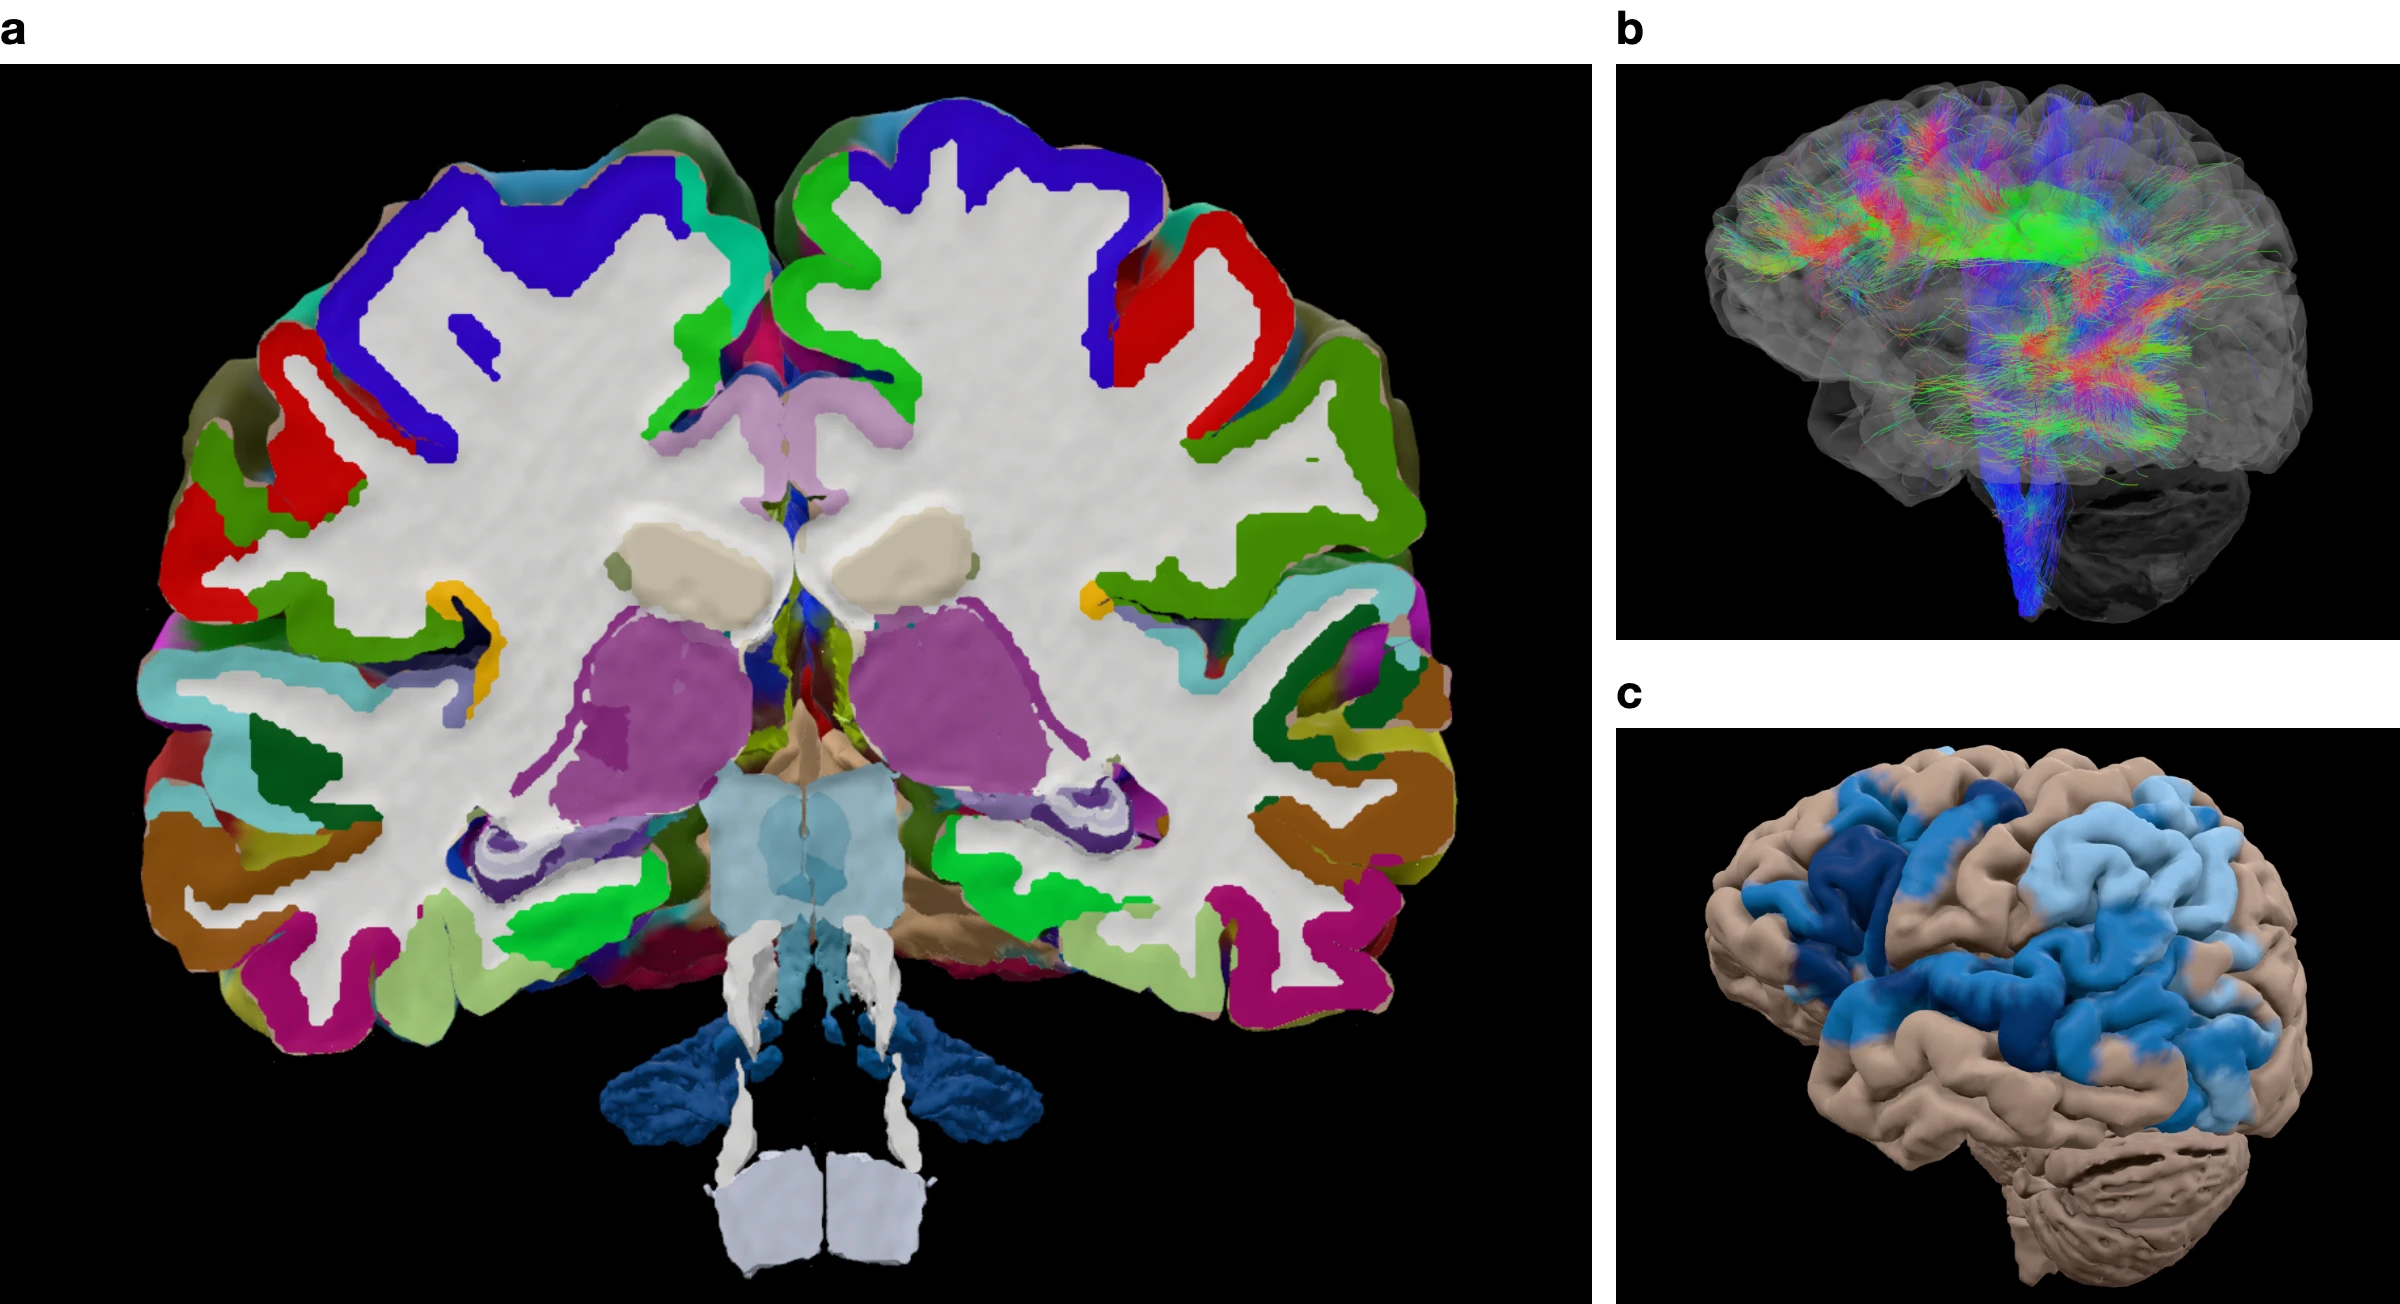
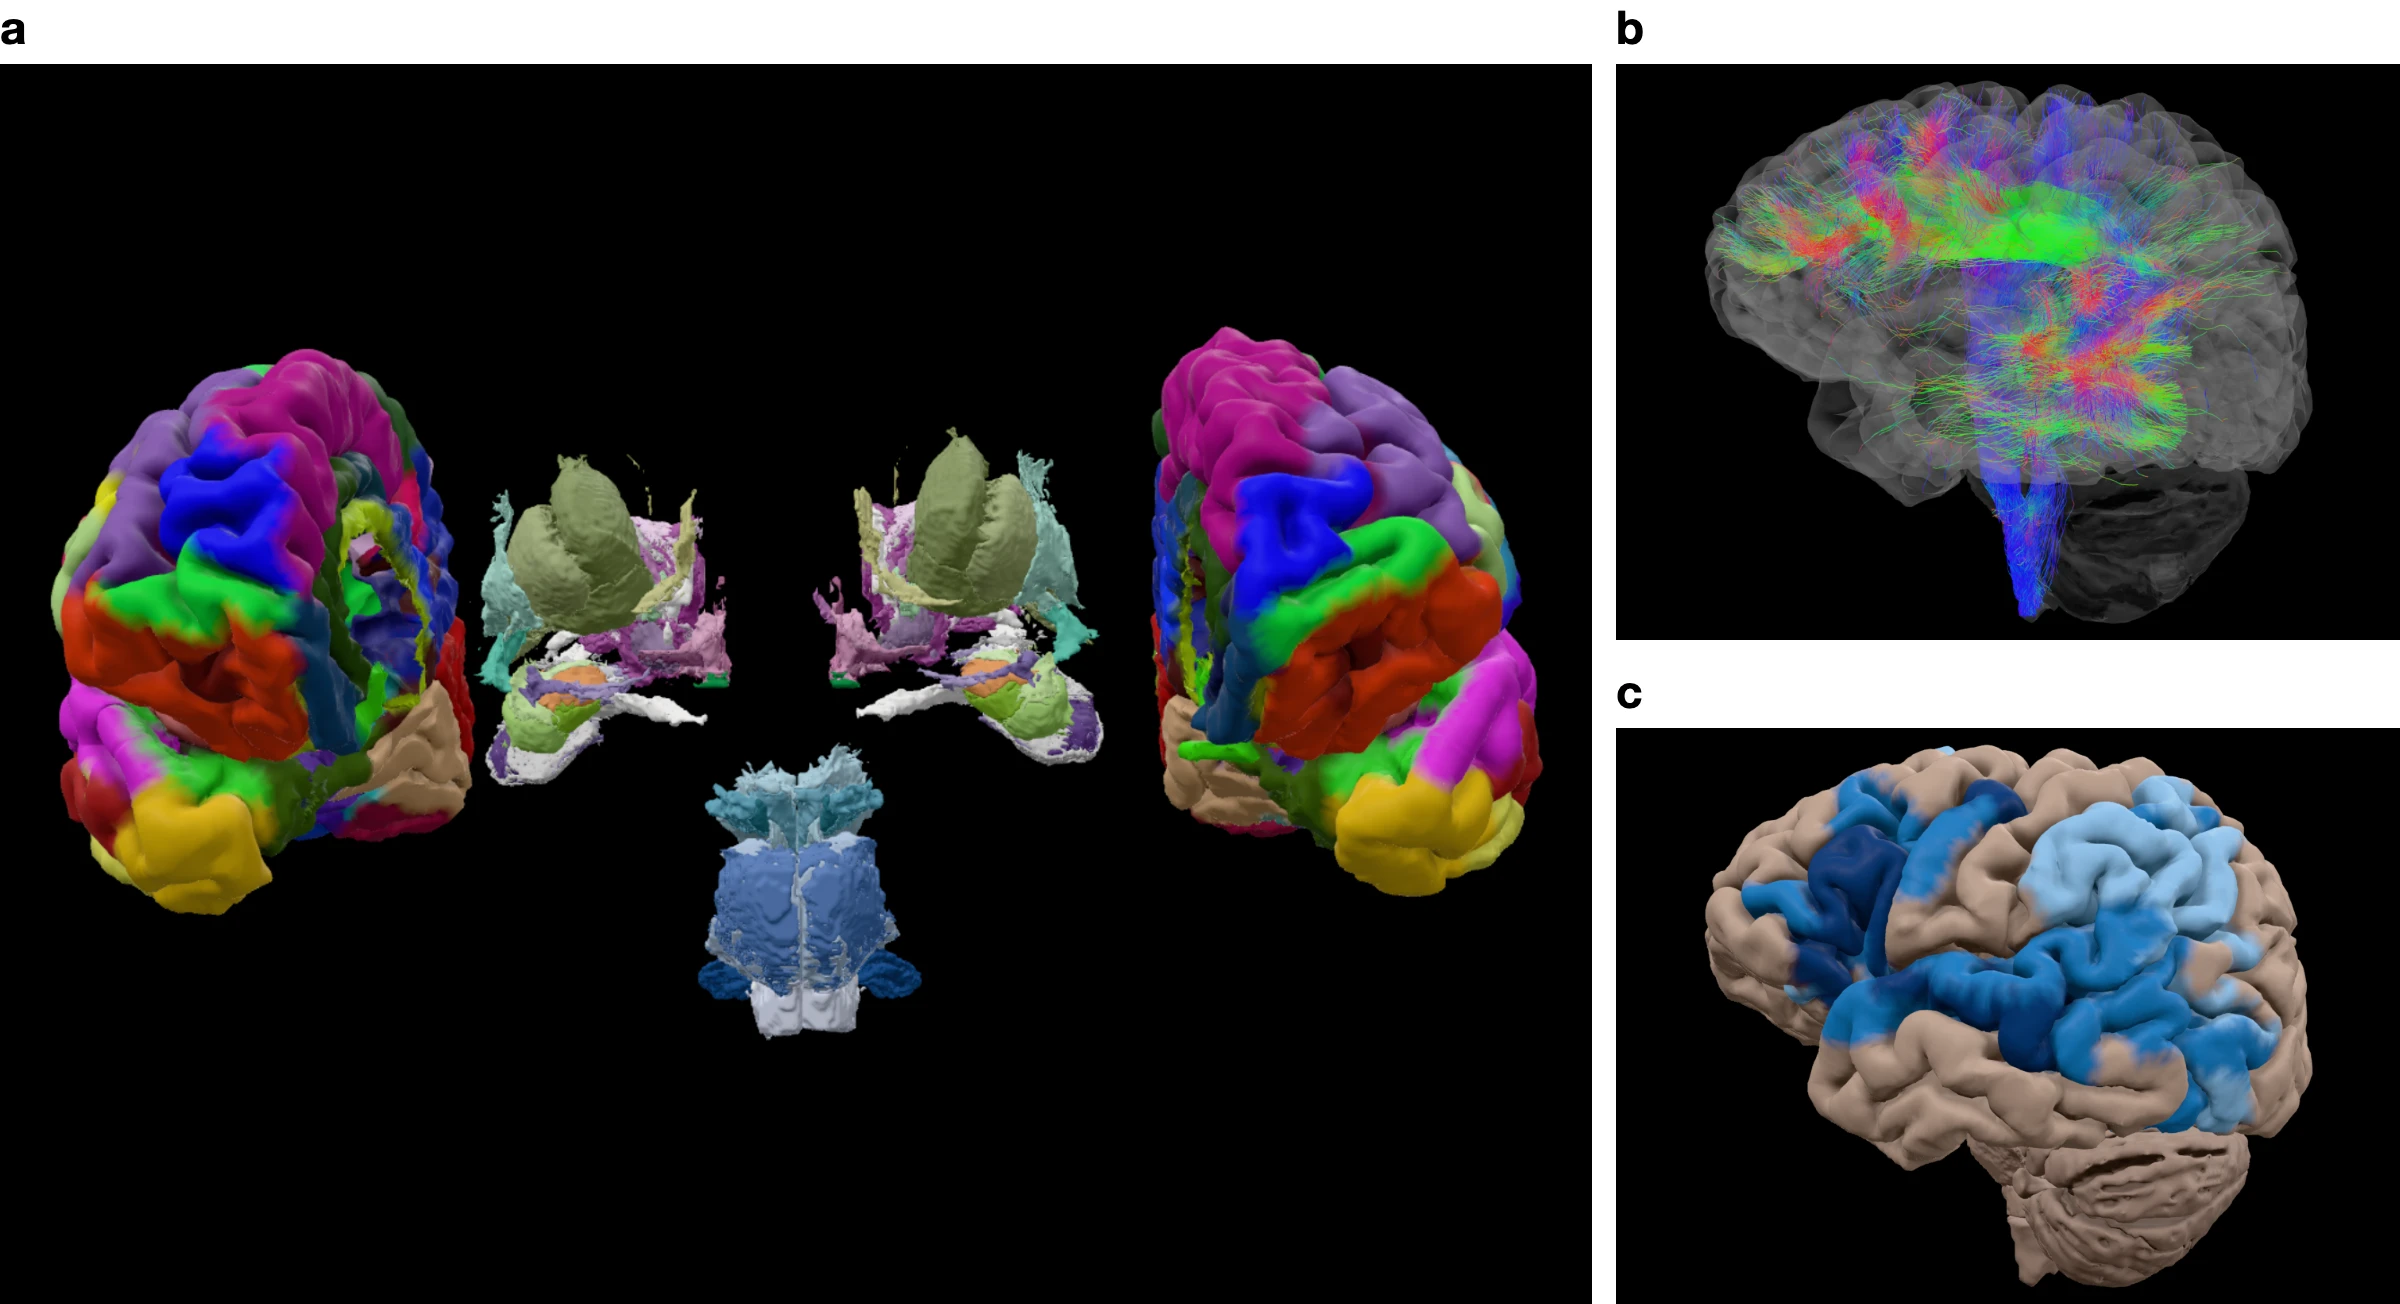
Show the NextBrain exploded view in the README's first figure
- Fig. 1a was a NextBrain coronal section at y = -20 mm. It is now the
  NextBrain exploded view seen from the front: Destrieux hemispheres apart,
  NextBrain's deep structures spread by system between them, the brainstem
  and dentate nuclei below. Light and dark versions were rendered with
  scripts/readme-figures.mjs; panels b and c were re-rendered and differ from
  the previous images only by compression noise (mean under 1/255).
- The README and docs index captions link to the live view and say that
  NextBrain gives the cerebellar nuclei a surface but not the cerebellar
  cortex, which it keeps as cut labels only.
- The README's feature paragraph names the exploded view.

diff --git a/README.md b/README.md
@@ -27,10 +27,10 @@ Cut, measure and compare one person’s MRI-reconstructed brain in the browser, 
 
 <picture>
   <source media="(prefers-color-scheme: dark)" srcset=".github/assets/readme/overview-dark.webp">
-  <img src=".github/assets/readme/overview-light.webp" alt="Three panels. a, a coronal section through the brain seen from the front, with the cortical ribbon in Destrieux colours and the deep structures and cut faces in NextBrain colours. b, the left arcuate fasciculus and corticospinal tract inside a translucent cortex, coloured by direction. c, the left hemisphere with language areas painted in three blues.">
+  <img src=".github/assets/readme/overview-light.webp" alt="Three panels. a, the brain seen from the front in an exploded view: the two hemispheres in Destrieux colours pulled apart sideways, with the deep structures in NextBrain colours spread between them and the brainstem below. b, the left arcuate fasciculus and corticospinal tract inside a translucent cortex, coloured by direction. c, the left hemisphere with language areas painted in three blues.">
 </picture>
 
-<sub><b>Fig. 1 | One brain, with every layer registered onto it.</b> <b>a</b>, <a href="https://planumatlas.com/#anatomy=cdmd&lang=en&atlas=destrieux&cuts=nextbrain&detail=nextbrain&cut=coronal&pos=-20&view=anterior">Coronal section at y = −20 mm</a>, seen from the front: cortex in Destrieux colours, deep structures and cut faces in NextBrain colours. <b>b</b>, <a href="https://planumatlas.com/#anatomy=cdmd&lang=en&atlas=destrieux&cuts=destrieux&detail=learning&tab=diffusion&view=left&opacity=0.16&tracts=af-left,cst-left">Left arcuate fasciculus and corticospinal tract</a> from the subject’s own diffusion MRI, coloured by local direction. <b>c</b>, <a href="https://planumatlas.com/#anatomy=cdmd&lang=en&atlas=hcp-mmp&cuts=hcp-mmp&detail=learning&view=left&tab=functions&function=language">Neurosynth map for language</a> on HCP-MMP areas; darker blue is more consistent (z 3–5, 5–10, ≥ 10).</sub>
+<sub><b>Fig. 1 | One brain, with every layer registered onto it.</b> <b>a</b>, <a href="https://planumatlas.com/#anatomy=cdmd&lang=en&atlas=destrieux&cuts=nextbrain&detail=nextbrain&view=anterior&explode=1">Exploded view</a>, seen from the front: the hemispheres in Destrieux colours, and NextBrain’s deep structures spread by system between them, each moved whole and never reshaped. NextBrain gives the cerebellar nuclei a surface but not the cerebellar cortex. <b>b</b>, <a href="https://planumatlas.com/#anatomy=cdmd&lang=en&atlas=destrieux&cuts=destrieux&detail=learning&tab=diffusion&view=left&opacity=0.16&tracts=af-left,cst-left">Left arcuate fasciculus and corticospinal tract</a> from the subject’s own diffusion MRI, coloured by local direction. <b>c</b>, <a href="https://planumatlas.com/#anatomy=cdmd&lang=en&atlas=hcp-mmp&cuts=hcp-mmp&detail=learning&view=left&tab=functions&function=language">Neurosynth map for language</a> on HCP-MMP areas; darker blue is more consistent (z 3–5, 5–10, ≥ 10).</sub>
 
 ## Overview
 
@@ -60,7 +60,7 @@ It runs in any WebGL 2 browser, in English and French, with keyboard and touch c
 
 <sub><b>Fig. 2 | Six colourings of the same left hemisphere.</b> <b>a</b>, <a href="https://planumatlas.com/#anatomy=cdmd&lang=en&atlas=destrieux&cuts=destrieux&detail=learning&view=left">Destrieux</a>, 148 gyral and sulcal parcels. <b>b</b>, <a href="https://planumatlas.com/#anatomy=cdmd&lang=en&atlas=hcp-mmp&cuts=hcp-mmp&detail=learning&view=left">HCP-MMP</a>, 360 multimodal areas. <b>c</b>, <a href="https://planumatlas.com/#anatomy=cdmd&lang=en&atlas=julich&cuts=julich&detail=learning&view=left">Julich-Brain 3.1</a>, 278 cytoarchitectonic areas. <b>d</b>, <a href="https://planumatlas.com/#anatomy=cdmd&lang=en&atlas=schaefer&cuts=schaefer&detail=learning&view=left">Schaefer</a>, 400 parcels in seven-network colours. <b>e</b>, <a href="https://planumatlas.com/#anatomy=cdmd&lang=en&atlas=destrieux&cuts=destrieux&detail=learning&view=left&colors=cab-np">CAB-NP</a>, 12 networks. <b>f</b>, <a href="https://planumatlas.com/#anatomy=cdmd&lang=en&atlas=destrieux&cuts=destrieux&detail=learning&view=left&colors=territory">Arterial territories</a> (Liu et al., 2023). Same camera and scale in every panel.</sub>
 
-Four cortical atlases share one surface, and the cortex can also be coloured by Yeo or CAB-NP networks, arterial territory or the subject’s T1, and drawn on the pial, mid-thickness or white surface to open the sulci. Beneath it, choose NextBrain’s 514 labels at 0.4 mm (292 meshed structures and 222 more on cut faces), FreeSurfer’s 32 aseg structures or a 106-structure teaching set, down through the brainstem, the cerebellar lobules and the cervical cord. A selected region reports its volume or surface area, centroid and source labels; **Focus**, **Isolate** and **Hide** dissect it in context.
+Four cortical atlases share one surface, and the cortex can also be coloured by Yeo or CAB-NP networks, arterial territory or the subject’s T1, and drawn on the pial, mid-thickness or white surface to open the sulci. Beneath it, choose NextBrain’s 514 labels at 0.4 mm (292 meshed structures and 222 more on cut faces), FreeSurfer’s 32 aseg structures or a 106-structure teaching set, down through the brainstem, the cerebellar lobules and the cervical cord. A selected region reports its volume or surface area, centroid and source labels; **Focus**, **Isolate** and **Hide** dissect it in context, and the **Exploded view** pulls the structures apart by system, each whole.
 
 Methods: [cortical atlases](https://planumatlas.com/docs/features/cortical-atlases.html) · [internal anatomy](https://planumatlas.com/docs/features/internal-anatomy.html) · [spinal cord](https://planumatlas.com/docs/features/spinal-cord.html) · [dissection and display](https://planumatlas.com/docs/features/dissection-and-display.html)
 

diff --git a/docs/index.md b/docs/index.md
@@ -64,10 +64,10 @@ Each page below documents one feature in a fixed order: data, method, display, v
 Sources, citations and data licences are listed in [References](reference/references.md).
 
 ```{figure} ../.github/assets/readme/overview-light.webp
-:alt: Three panels. a, a coronal section seen from the front, with the cortical ribbon in Destrieux colours and the deep structures and cut faces in NextBrain colours. b, the left arcuate fasciculus and corticospinal tract inside a translucent cortex, coloured by direction. c, the left hemisphere with language areas painted in three blues.
+:alt: Three panels. a, the brain seen from the front in an exploded view: the two hemispheres in Destrieux colours pulled apart sideways, with the deep structures in NextBrain colours spread between them and the brainstem below. b, the left arcuate fasciculus and corticospinal tract inside a translucent cortex, coloured by direction. c, the left hemisphere with language areas painted in three blues.
 :name: fig-index-1
 
-**One subject's anatomy, with every layer registered onto it.** **a**, Coronal section at y = −20 mm (surface RAS), seen from the front: Destrieux cortex, NextBrain deep structures and cut faces. **b**, Left arcuate fasciculus and corticospinal tract from the subject's own diffusion scan, coloured by local direction inside a see-through cortex. **c**, Neurosynth language map on HCP-MMP areas (z ≥ 3).
+**One subject's anatomy, with every layer registered onto it.** **a**, Exploded view, seen from the front: Destrieux hemispheres and NextBrain deep structures spread by system, each moved whole and never reshaped ([dissection and display](features/dissection-and-display.md#exploded-view)). NextBrain gives the cerebellar nuclei a surface but not the cerebellar cortex. **b**, Left arcuate fasciculus and corticospinal tract from the subject's own diffusion scan, coloured by local direction inside a see-through cortex. **c**, Neurosynth language map on HCP-MMP areas (z ≥ 3).
 ```
 
 ## Common basis
